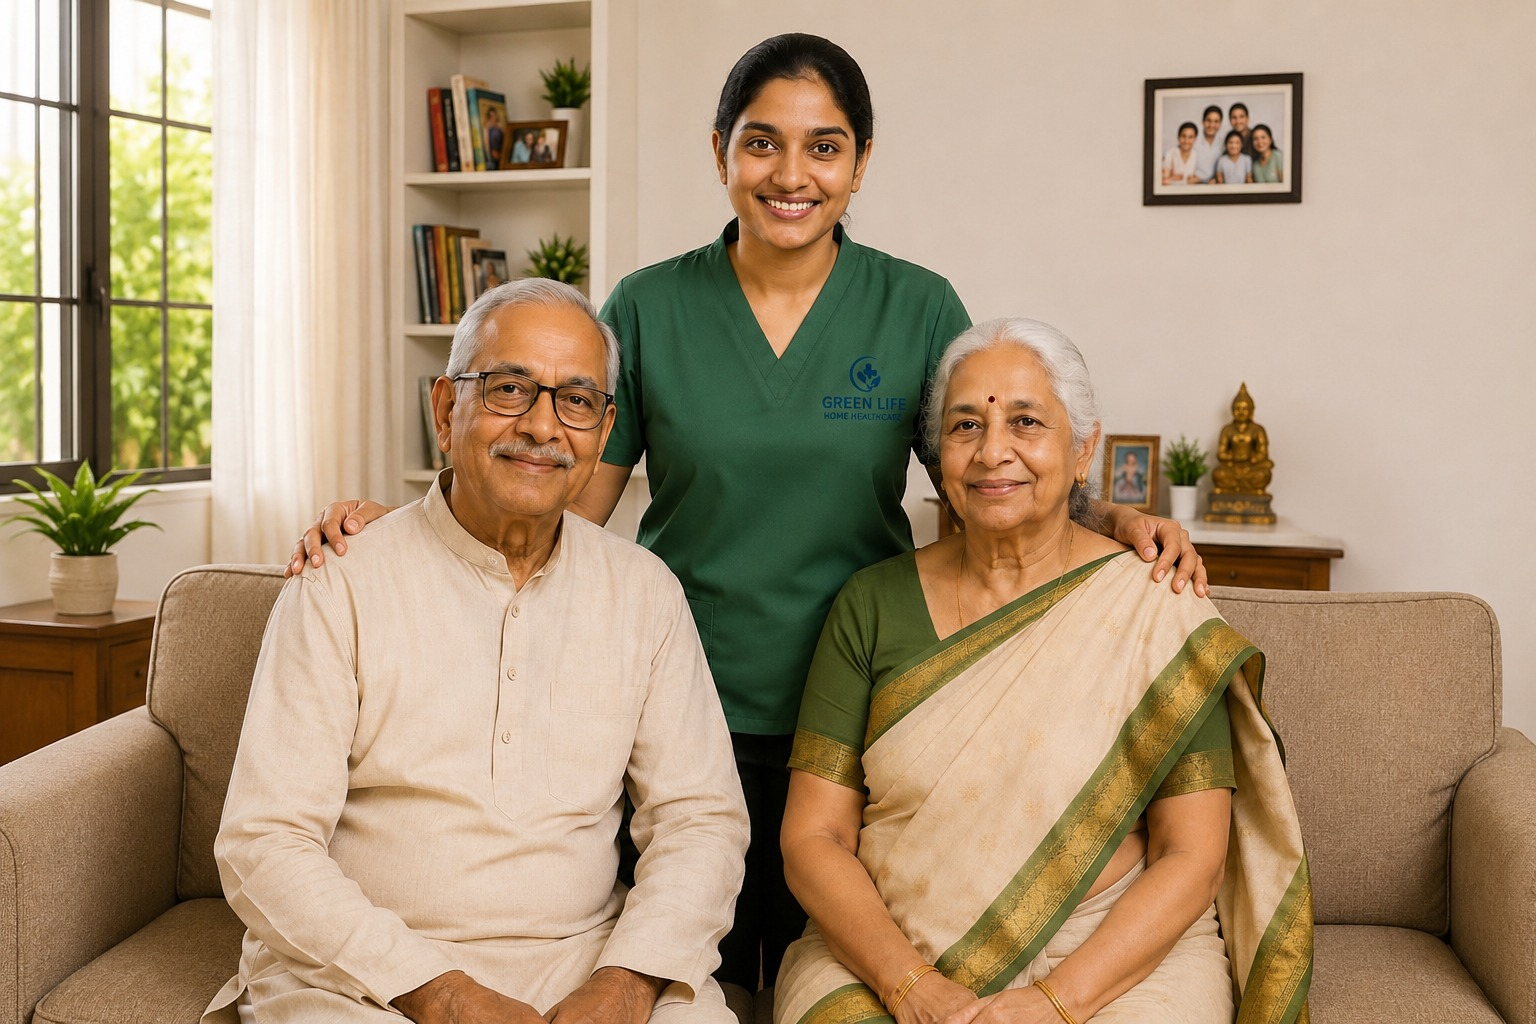
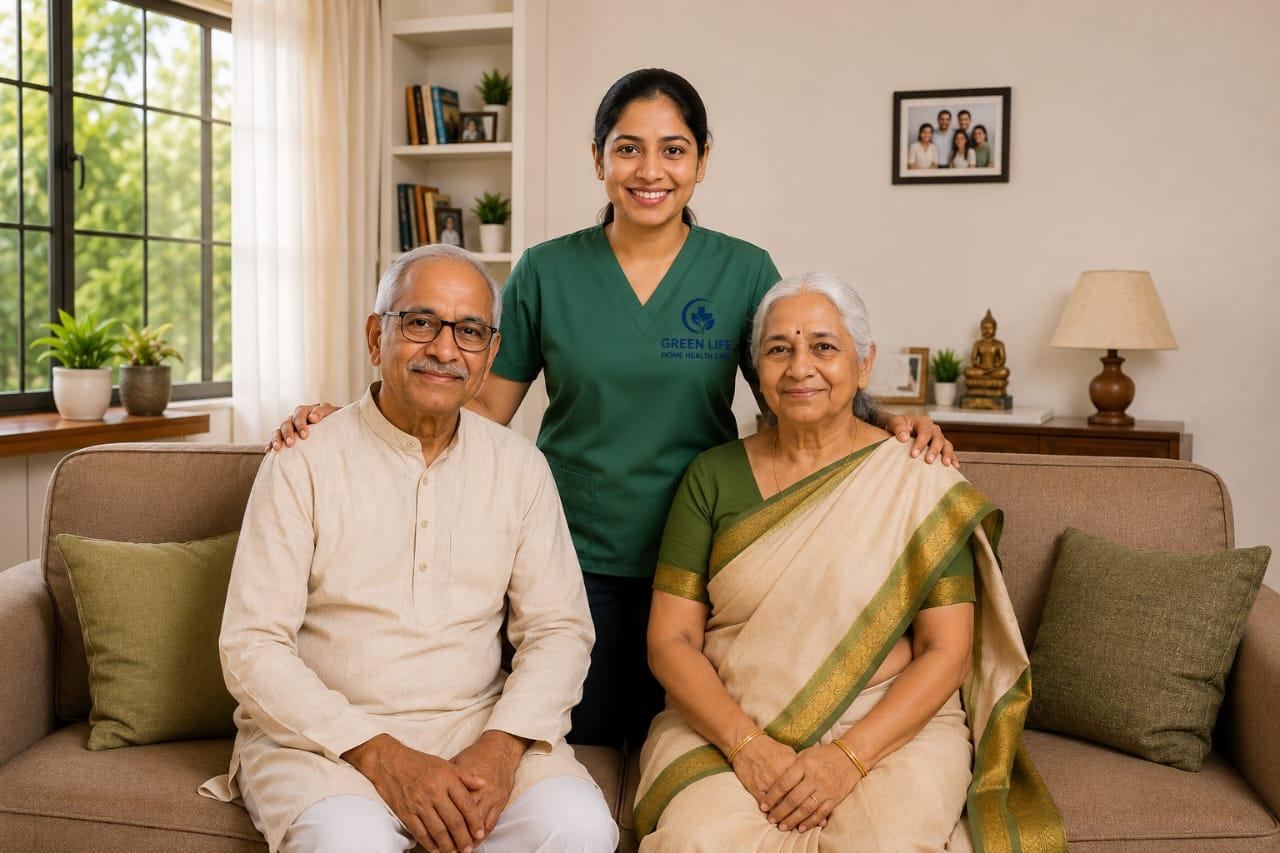
Add homepage stats ticker

diff --git a/testimonials/index.html b/testimonials/index.html
@@ -17,12 +17,12 @@
 <main>
 <section class="gl-page-hero"><div class="container gl-page-hero-grid"><div><span class="gl-kicker">Family stories</span><h1>Trust built through patient, practical home care</h1><p>Real-world style testimonials focused on recovery, elder care and peace of mind for Chennai families.</p></div><img src="../assets/photos/testimonial-family-care.png" alt="Family with doctor during Green Life home healthcare support"></div></section>
 <section class="section gl-section gl-soft"><div class="container gl-review-grid gl-review-page">
-<article class="review-card gl-story-card reveal"><div class="gl-review-top"><div class="stars">&#9733;&#9733;&#9733;&#9733;&#9733;</div><span class="gl-review-no">01</span></div><h3>Highly recommended care</h3><div class="gl-review-tags"><span>Home Health Care</span><span>Chennai</span></div><p>Highly recommended! Green Life Home Health Care provides compassionate, reliable, and professional care.</p><div class="review-person"><img src="../assets/photos/reviews/review-priya.jpg" alt="Sandy"><div><strong>Sandy</strong><span>Chennai</span></div></div></article>
-<article class="review-card gl-story-card reveal"><div class="gl-review-top"><div class="stars">&#9733;&#9733;&#9733;&#9733;&#9733;</div><span class="gl-review-no">02</span></div><h3>Nursing care for grandmother</h3><div class="gl-review-tags"><span>Nursing Care</span><span>Chennai</span></div><p>My grandmother was admitted in Green Life health care services and received good maintenance and good nursing care.</p><div class="review-person"><img src="../assets/photos/reviews/review-ramesh.jpg" alt="Vijayapuram Krishna"><div><strong>Vijayapuram Krishna</strong><span>Chennai</span></div></div></article>
-<article class="review-card gl-story-card reveal"><div class="gl-review-top"><div class="stars">&#9733;&#9733;&#9733;&#9733;&#9733;</div><span class="gl-review-no">03</span></div><h3>Palliative care support</h3><div class="gl-review-tags"><span>Palliative Care</span><span>Chennai</span></div><p>Very good palliative care and excellent nursing care. Our patient recovered with dedicated care and support.</p><div class="review-person"><img src="../assets/photos/reviews/review-sathish.jpg" alt="Gani Thipinoori"><div><strong>Gani Thipinoori</strong><span>Chennai</span></div></div></article>
-<article class="review-card gl-story-card reveal"><div class="gl-review-top"><div class="stars">&#9733;&#9733;&#9733;&#9733;&#9733;</div><span class="gl-review-no">04</span></div><h3>Qualified sisters</h3><div class="gl-review-tags"><span>Patient Care</span><span>Chennai</span></div><p>Patient admission caring is too good with qualified sisters. Nursing care and physiotherapy helped the patient recover well.</p><div class="review-person"><img src="../assets/photos/reviews/review-meena.jpg" alt="Nandhini Nandhu"><div><strong>Nandhini Nandhu</strong><span>Chennai</span></div></div></article>
-<article class="review-card gl-story-card reveal"><div class="gl-review-top"><div class="stars">&#9733;&#9733;&#9733;&#9733;&#9733;</div><span class="gl-review-no">05</span></div><h3>Palliative care experience</h3><div class="gl-review-tags"><span>Palliative Care</span><span>Chennai</span></div><p>Best palliative care from Green Life Home Health Care, providing compassionate support, comfort, and dignity for patients and their families.</p><div class="review-person"><img src="../assets/photos/reviews/review-karthik.jpg" alt="Saritha"><div><strong>Saritha</strong><span>Chennai</span></div></div></article>
-<article class="review-card gl-story-card reveal"><div class="gl-review-top"><div class="stars">&#9733;&#9733;&#9733;&#9733;&#9733;</div><span class="gl-review-no">06</span></div><h3>Good service</h3><div class="gl-review-tags"><span>Home Care Support</span><span>Chennai</span></div><p>Good service from the Green Life Home Health Care team, delivering reliable, compassionate, and professional care at home.</p><div class="review-person"><img src="../assets/photos/reviews/review-revathi.jpg" alt="Manoj"><div><strong>Manoj</strong><span>Chennai</span></div></div></article>
+<article class="review-card gl-story-card reveal"><div class="gl-review-top"><div class="stars">&#9733;&#9733;&#9733;&#9733;&#9733;</div><span class="gl-review-no">01</span></div><h3>Highly recommended care</h3><div class="gl-review-tags"><span>Home Health Care</span><span>Chennai</span></div><p>Highly recommended! Green Life Home Health Care provides compassionate, reliable, and professional care.</p><div class="review-person"><div><strong>Sandy</strong><span>Chennai</span></div></div></article>
+<article class="review-card gl-story-card reveal"><div class="gl-review-top"><div class="stars">&#9733;&#9733;&#9733;&#9733;&#9733;</div><span class="gl-review-no">02</span></div><h3>Nursing care for grandmother</h3><div class="gl-review-tags"><span>Nursing Care</span><span>Chennai</span></div><p>My grandmother was admitted in Green Life health care services and received good maintenance and good nursing care.</p><div class="review-person"><div><strong>Vijayapuram Krishna</strong><span>Chennai</span></div></div></article>
+<article class="review-card gl-story-card reveal"><div class="gl-review-top"><div class="stars">&#9733;&#9733;&#9733;&#9733;&#9733;</div><span class="gl-review-no">03</span></div><h3>Palliative care support</h3><div class="gl-review-tags"><span>Palliative Care</span><span>Chennai</span></div><p>Very good palliative care and excellent nursing care. Our patient recovered with dedicated care and support.</p><div class="review-person"><div><strong>Gani Thipinoori</strong><span>Chennai</span></div></div></article>
+<article class="review-card gl-story-card reveal"><div class="gl-review-top"><div class="stars">&#9733;&#9733;&#9733;&#9733;&#9733;</div><span class="gl-review-no">04</span></div><h3>Qualified sisters</h3><div class="gl-review-tags"><span>Patient Care</span><span>Chennai</span></div><p>Patient admission caring is too good with qualified sisters. Nursing care and physiotherapy helped the patient recover well.</p><div class="review-person"><div><strong>Nandhini Nandhu</strong><span>Chennai</span></div></div></article>
+<article class="review-card gl-story-card reveal"><div class="gl-review-top"><div class="stars">&#9733;&#9733;&#9733;&#9733;&#9733;</div><span class="gl-review-no">05</span></div><h3>Palliative care experience</h3><div class="gl-review-tags"><span>Palliative Care</span><span>Chennai</span></div><p>Best palliative care from Green Life Home Health Care, providing compassionate support, comfort, and dignity for patients and their families.</p><div class="review-person"><div><strong>Saritha</strong><span>Chennai</span></div></div></article>
+<article class="review-card gl-story-card reveal"><div class="gl-review-top"><div class="stars">&#9733;&#9733;&#9733;&#9733;&#9733;</div><span class="gl-review-no">06</span></div><h3>Good service</h3><div class="gl-review-tags"><span>Home Care Support</span><span>Chennai</span></div><p>Good service from the Green Life Home Health Care team, delivering reliable, compassionate, and professional care at home.</p><div class="review-person"><div><strong>Manoj</strong><span>Chennai</span></div></div></article>
 </div></section>
 <section class="section gl-section"><div class="container gl-cta-band reveal"><h2>Want to discuss care for your family?</h2><div class="hero-actions"><a class="btn btn-primary" href="../appointment/">Book Appointment</a><a class="btn btn-soft" href="https://wa.me/916383915367">WhatsApp Now</a></div></div></section>
 </main>

diff --git a/index.html b/index.html
@@ -51,7 +51,7 @@
   </div>
 </section>
 
-<section class="gl-trust-strip gl-stats-strip stats"><div class="container"><div class="stat"><strong class="metric-num" data-count="5000">5000</strong><span>+</span><span>Patients Cared</span></div><div class="stat gl-nurses-stat"><strong class="metric-num" data-count="100">100</strong><span>Plus</span><span>Expert Nurses All Over Chennai</span></div><div class="stat"><strong class="metric-num" data-count="24">24</strong><span>/7</span><span>Support</span></div></div></section>
+<section class="gl-trust-strip gl-stats-strip stats"><div class="container"><div class="stat"><strong class="metric-num" data-count="5000">5000</strong><span>+</span><span>Patients Cared</span></div><div class="stat gl-nurses-stat"><strong class="metric-num" data-count="100">100</strong><span>+</span><span>Expert Nurses All Over Chennai</span></div><div class="stat"><strong class="metric-num" data-count="24">24</strong><span>/7</span><span>Support</span></div><div class="stat gl-stat-clone" aria-hidden="true"><strong>5000</strong><span>+</span><span>Patients Cared</span></div><div class="stat gl-nurses-stat gl-stat-clone" aria-hidden="true"><strong>100</strong><span>+</span><span>Expert Nurses All Over Chennai</span></div><div class="stat gl-stat-clone" aria-hidden="true"><strong>24</strong><span>/7</span><span>Support</span></div></div></section>
 
 <section class="section gl-section">
   <div class="container gl-split">
@@ -98,9 +98,9 @@
   <div class="container">
     <div class="gl-section-head"><span class="eyebrow">Family voices</span><h2>Trust built inside Chennai homes</h2></div>
     <div class="gl-review-grid">
-      <article class="review-card reveal"><div class="stars">★ ★ ★ ★ ★</div><p>Highly recommended! Green Life Home Health Care provides compassionate, reliable, and professional care.</p><div class="review-person"><img src="assets/photos/reviews/review-priya.jpg" alt="Sandy"><div><strong>Sandy</strong><span>Chennai</span></div></div></article>
-      <article class="review-card reveal"><div class="stars">★ ★ ★ ★ ★</div><p>My grandmother was admitted in Green Life health care services and received good maintenance and good nursing care.</p><div class="review-person"><img src="assets/photos/reviews/review-ramesh.jpg" alt="Vijayapuram Krishna"><div><strong>Vijayapuram Krishna</strong><span>Chennai</span></div></div></article>
-      <article class="review-card reveal"><div class="stars">★ ★ ★ ★ ★</div><p>Very good palliative care and excellent nursing care. Our patient recovered with dedicated care and support.</p><div class="review-person"><img src="assets/photos/reviews/review-sathish.jpg" alt="Gani Thipinoori"><div><strong>Gani Thipinoori</strong><span>Chennai</span></div></div></article>
+      <article class="review-card reveal"><div class="stars">★ ★ ★ ★ ★</div><p>Highly recommended! Green Life Home Health Care provides compassionate, reliable, and professional care.</p><div class="review-person"><div><strong>Sandy</strong><span>Chennai</span></div></div></article>
+      <article class="review-card reveal"><div class="stars">★ ★ ★ ★ ★</div><p>My grandmother was admitted in Green Life health care services and received good maintenance and good nursing care.</p><div class="review-person"><div><strong>Vijayapuram Krishna</strong><span>Chennai</span></div></div></article>
+      <article class="review-card reveal"><div class="stars">★ ★ ★ ★ ★</div><p>Very good palliative care and excellent nursing care. Our patient recovered with dedicated care and support.</p><div class="review-person"><div><strong>Gani Thipinoori</strong><span>Chennai</span></div></div></article>
     </div>
     <div class="gl-center-actions"><a class='btn btn-soft' href='testimonials/'>Read More Stories</a></div>
   </div>

diff --git a/assets/css/styles.css b/assets/css/styles.css
@@ -3913,11 +3913,14 @@ body.page-home .gl-stats-strip .gl-nurses-stat span:last-of-type {
 
 @media (max-width: 680px) {
   body.page-home .gl-stats-strip .container {
-    grid-template-columns: 1fr !important;
-    max-width: min(420px, calc(100vw - 28px)) !important;
+    grid-template-columns: none !important;
+    max-width: none !important;
+    gap: 12px !important;
   }
 
   body.page-home .gl-stats-strip .stat {
+    flex-basis: min(82vw, 340px) !important;
+    width: min(82vw, 340px) !important;
     min-height: 104px !important;
     padding: 16px 12px !important;
   }
@@ -3927,6 +3930,7 @@ body.page-home .gl-stats-strip .gl-nurses-stat span:last-of-type {
     line-height: 1.22 !important;
   }
 }
+
 
 @media (prefers-reduced-motion: reduce) {
   *,
@@ -12094,7 +12098,7 @@ html.gl-desktop-request .gl-ios-actions svg {
   }
 }
 
-/* Final nurse-count guard: keep "100 Plus Expert Nurses All Over Chennai" readable. */
+/* Final nurse-count guard: keep "100 + Expert Nurses All Over Chennai" readable. */
 body.page-home .gl-stats-strip .stat {
   min-width: 0 !important;
   overflow: hidden !important;
@@ -12130,5 +12134,55 @@ body.page-home .gl-stats-strip .gl-nurses-stat span:last-of-type {
 
   body.page-home .gl-stats-strip .gl-nurses-stat span:last-of-type {
     font-size: clamp(0.76rem, 3.5vw, 0.92rem) !important;
+  }
+}
+
+/* Final homepage stats ticker: continuous left movement with duplicated cards. */
+body.page-home .gl-stats-strip {
+  overflow: hidden !important;
+}
+
+body.page-home .gl-stats-strip .container {
+  display: flex !important;
+  grid-template-columns: none !important;
+  width: max-content !important;
+  max-width: none !important;
+  gap: 18px !important;
+  align-items: stretch !important;
+  will-change: transform !important;
+}
+
+body.page-home .gl-stats-strip .stat {
+  flex: 0 0 clamp(260px, 30vw, 380px) !important;
+  width: clamp(260px, 30vw, 380px) !important;
+}
+
+@media (prefers-reduced-motion: no-preference) {
+  body.page-home .gl-stats-strip .container {
+    animation: glStatsTickerScroll 20s linear infinite !important;
+  }
+
+  body.page-home .gl-stats-strip:hover .container {
+    animation-play-state: paused !important;
+  }
+}
+
+@media (max-width: 680px) {
+  body.page-home .gl-stats-strip .container {
+    gap: 12px !important;
+  }
+
+  body.page-home .gl-stats-strip .stat {
+    flex-basis: min(82vw, 340px) !important;
+    width: min(82vw, 340px) !important;
+  }
+}
+
+@keyframes glStatsTickerScroll {
+  from {
+    transform: translateX(0);
+  }
+  to {
+    transform: translateX(calc(-50% - 9px));
   }
 }
